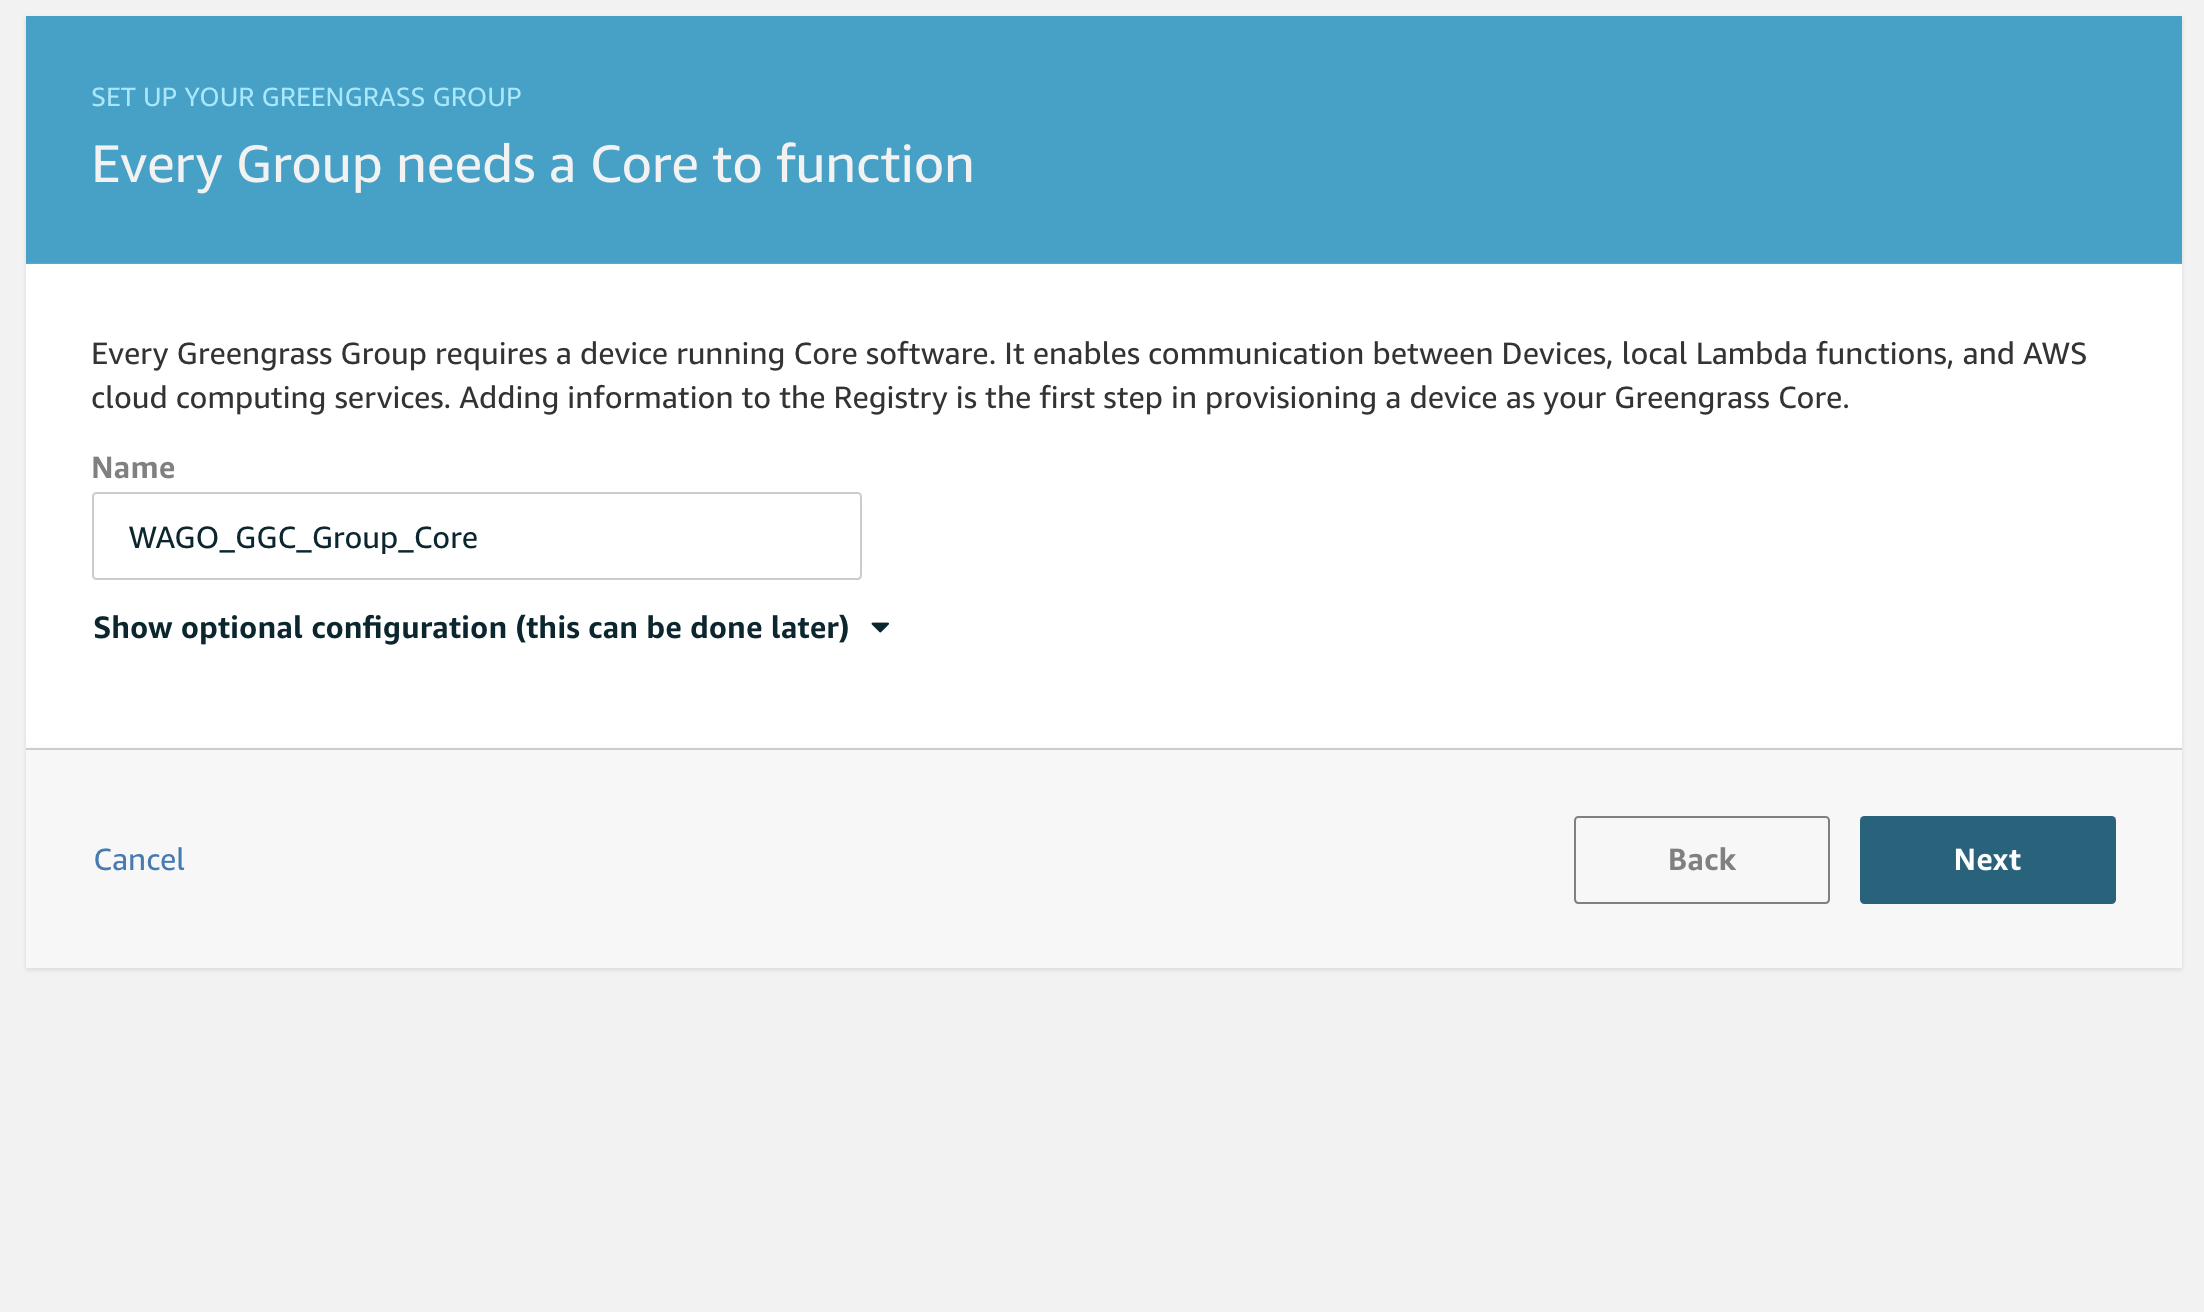
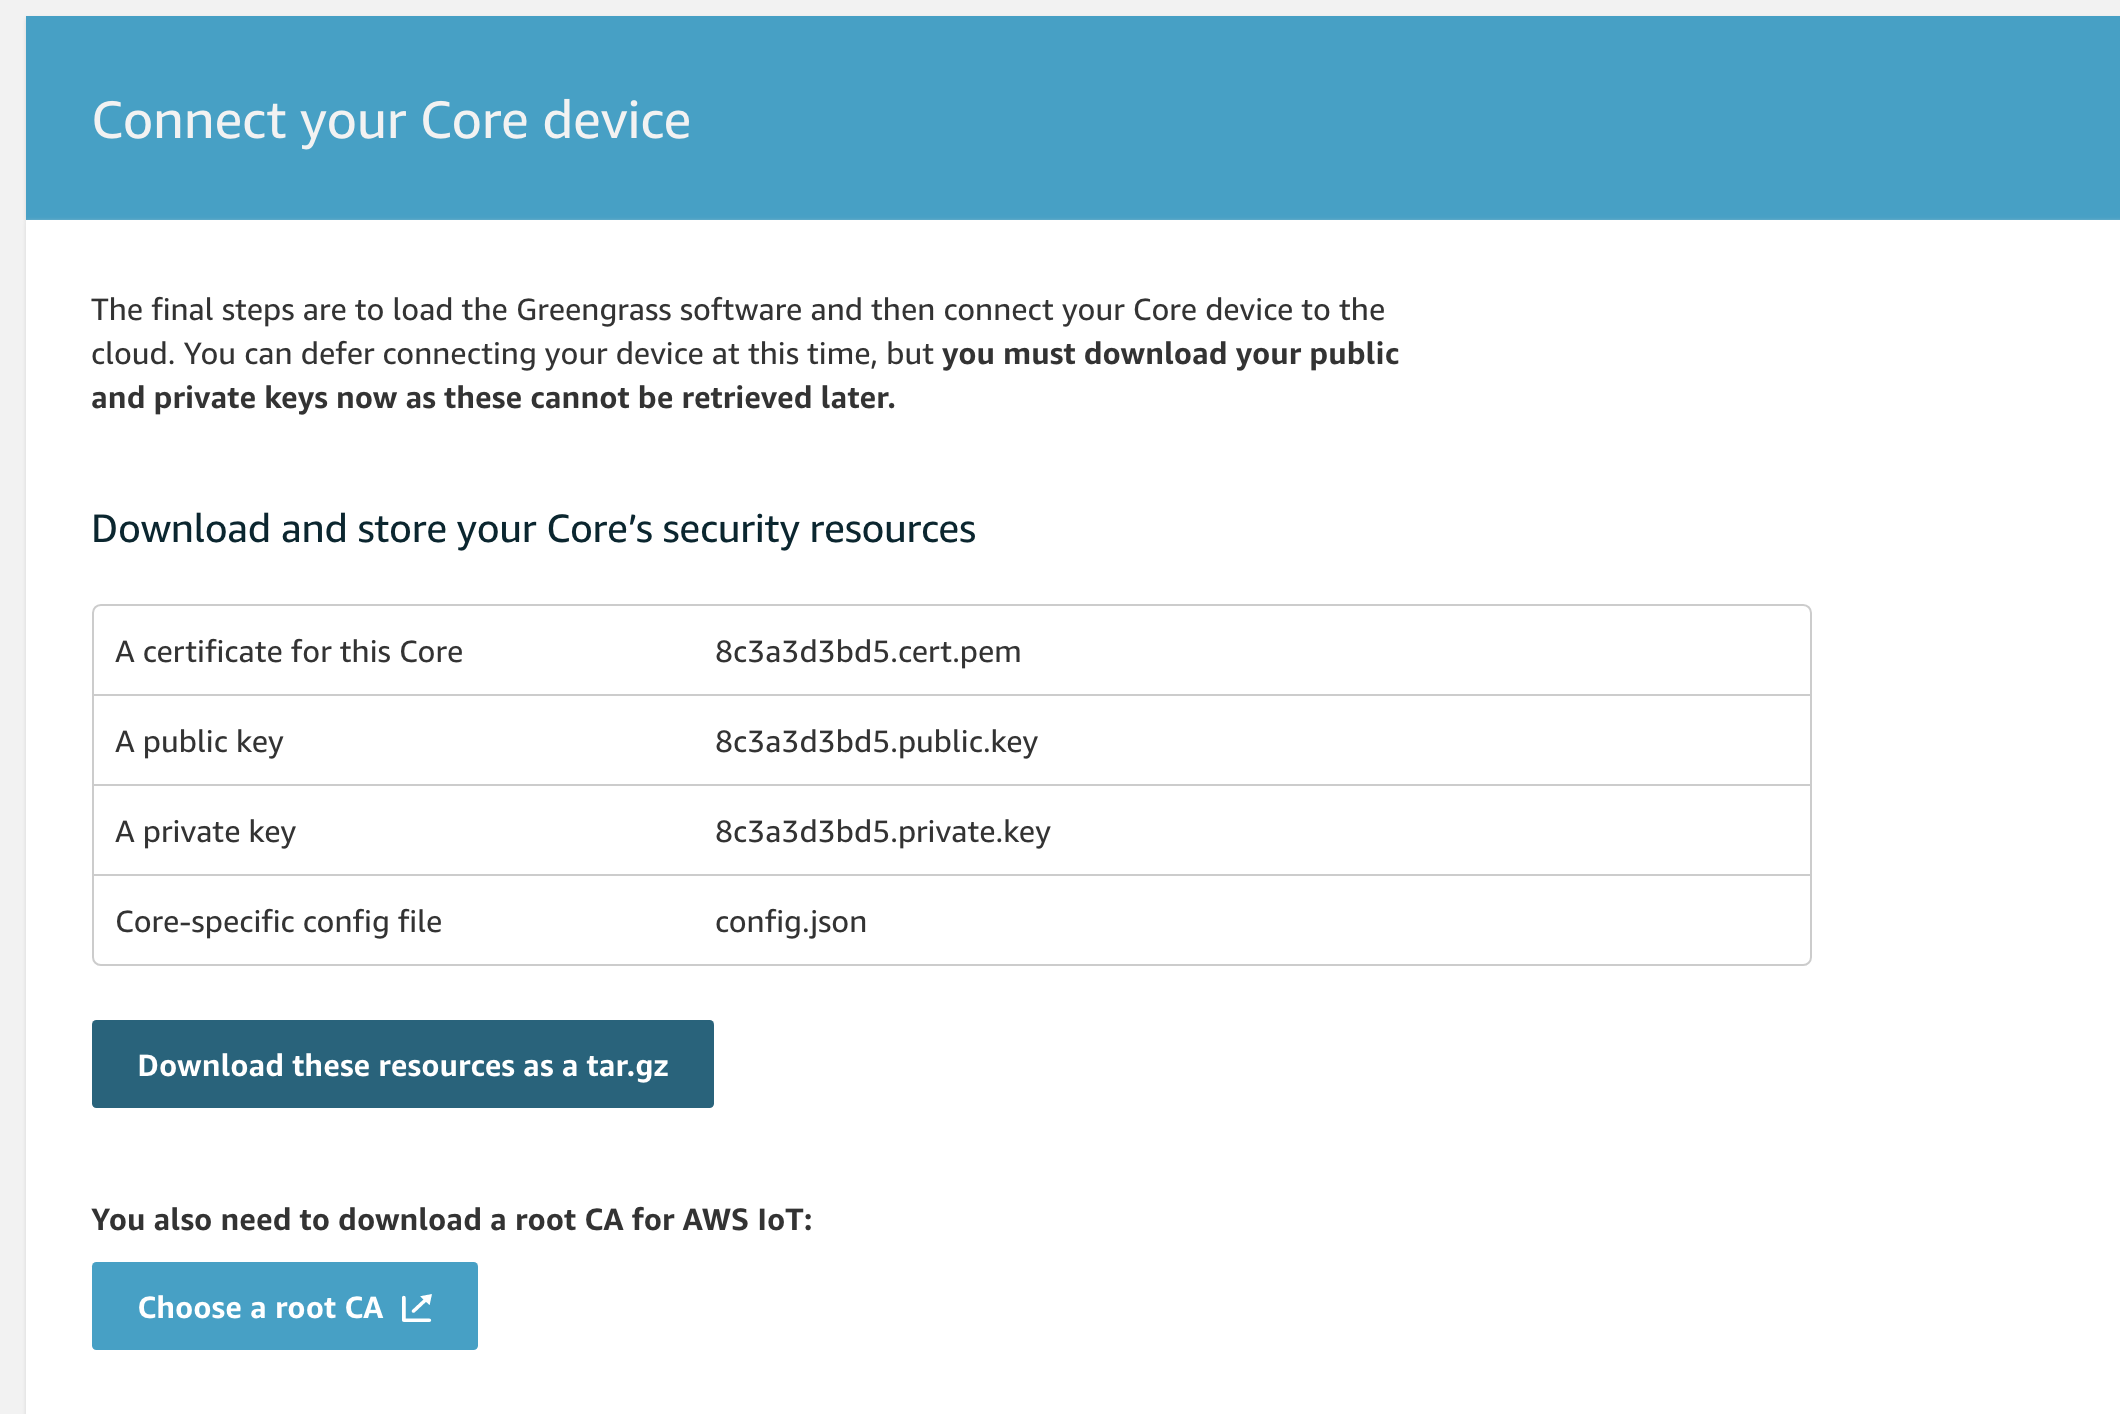
Add files via upload

diff --git a/README.md b/README.md
@@ -1,25 +1,34 @@
-[1]: https://www.dropbox.com/sh/agx15xqa4kw8kwb/AAAELJxQZjbPbZTgWzb74xiza?dl=0
+[1]: https://www.dropbox.com/sh/slf68kr1azp1o27/AACxl6xDUQen0-MbI1zoBjLKa?dl=0
 
-# GreengrassCore
+# Greengrass Core for WAGO PFC200 G2 and TP600
+
 Greengrass core images and examples for WAGO TP600 and PFC200 G2 controllers
+![Image of GGC creation](./images/image1.png)
 
-[Find the image file here][1]
+[Find the firmware image files here][1]
 
 To use this:
 
-1. Build the Group and Core by following the setup steps in the AWS IoT Core >> Greengrass >> Groups
-![Image of GGC creation](./images/image1.png)
+![Image of GGC creation](./images/image2.png)
 
-2. Use "Easy Creation" to build the development package and credentials
-![Easy Creation](./images/image3.png)
+1. Build the Group and Core by following the setup steps in the AWS IoT Core >> Greengrass >> Groups.  When available, download the tar.gz file that includes the credentials and config file
 
-3. Download the tar.gz file that includes the credentials and config file
-![Download package](./images/image4.png)
+![Extract the credentials and config to the /greengrass directory](./images/image3.png)
 
-4. Copy the <certificate>.tar.gz file to the controllers / directory.  Extract and distribute to /greengrass
+2. Copy the downloaded pacjkage to the controller using FTP or scp.  Untar this file to the greengrass directory
     
-    `tar -xzvf <identifier>.tar.gz -C /greengrass`
+    `tar -xzvf /<identifier>.tar.gz -C /greengrass`
 
-5. reboot the controller and the greengrass service will start automatically
+![Image of GGC creation](./images/image3.png)
 
-	`sudo reboot`
+3. Download a current rootCA certificate from AWS servers
+    
+    `cd /greengrass/certs`
+    `wget -O root.ca.pem https://www.amazontrust.com/repository/AmazonRootCA1.pem`
+
+![Image of GGC creation](./images/image5.png)
+
+4. Start the greengrass service with the following commands
+    
+    `cd /greengrass/ggc/core`
+    `sudo ./greengrassd start`
